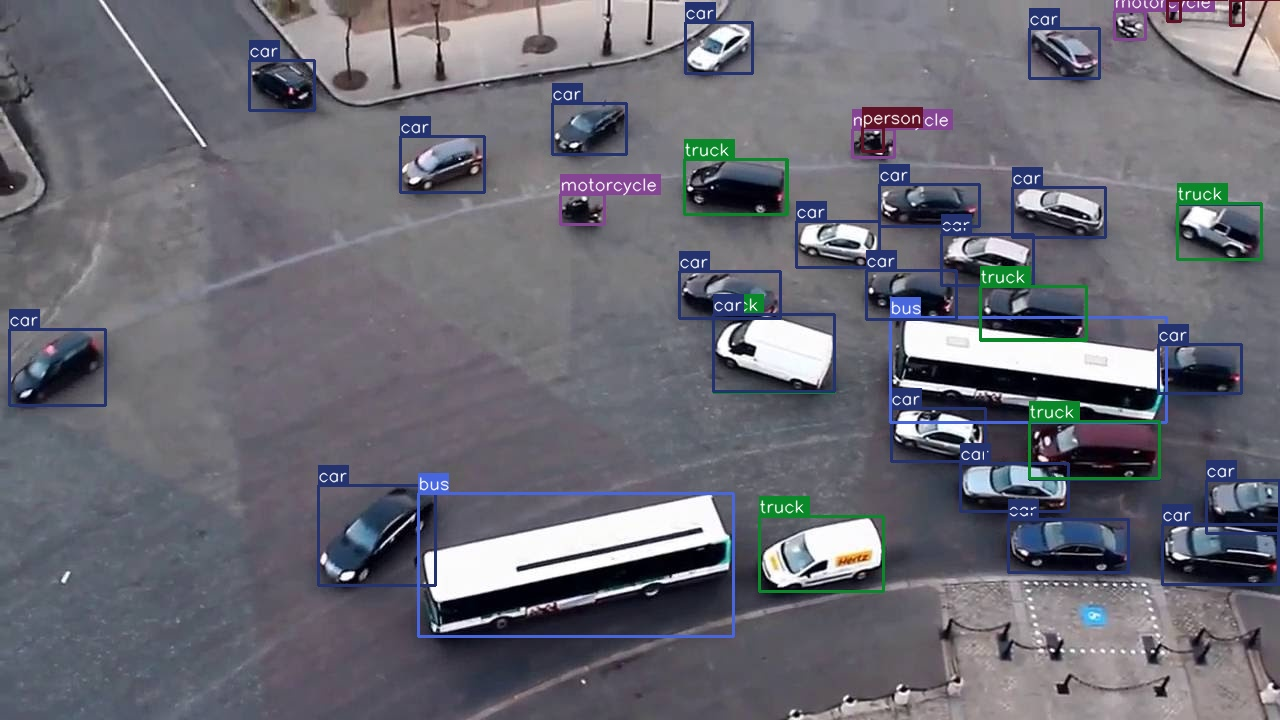
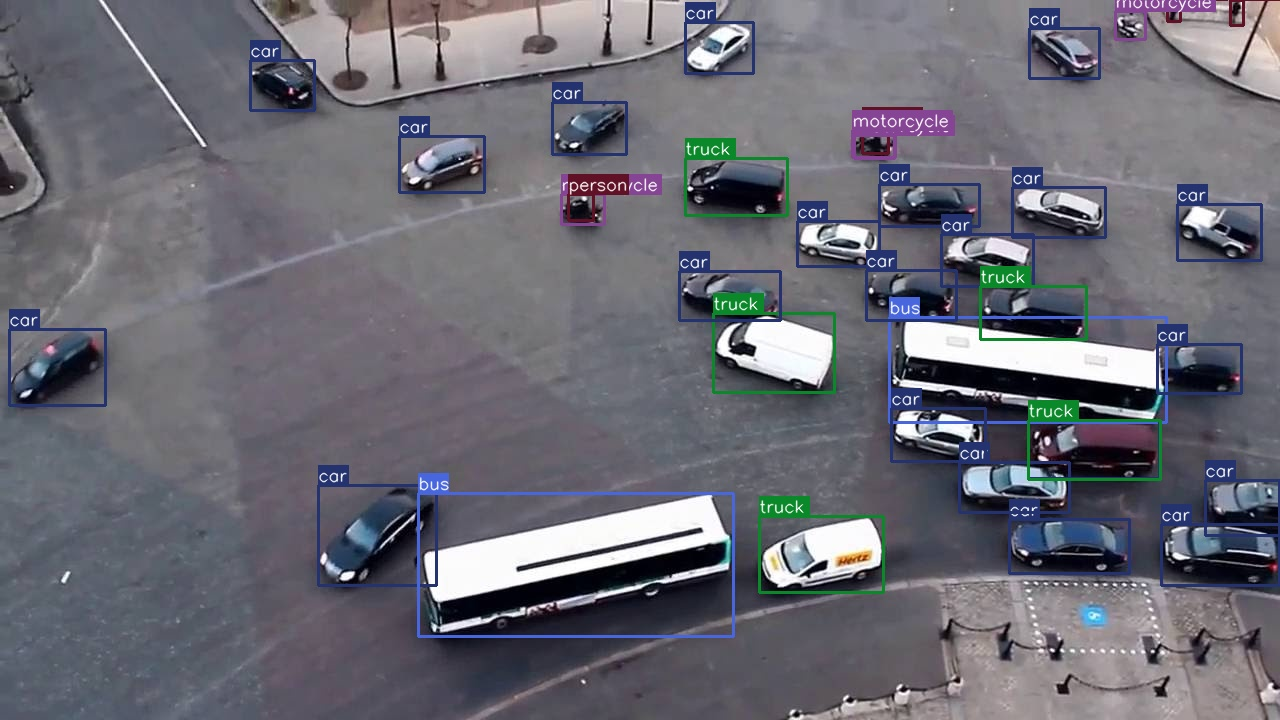
convert to rgb in model

diff --git a/test/test_outputs.py b/test/test_outputs.py
@@ -41,7 +41,6 @@ if __name__ == "__main__":
   threshold = 0.5
   models = [[384, "nano"], [512, "small"], [576, "medium"], [704, "large"]]
   image = cv2.imread("test/dog.jpg")
-  image = cv2.cvtColor(image, cv2.COLOR_BGR2RGB)
 
   for i in range(len(models)):
     model = RFDETR(models[i][1])

diff --git a/test/run_jit.py b/test/run_jit.py
@@ -14,7 +14,6 @@ if __name__ == "__main__":
   size = sys.argv[1]
   size = sizes[size]
   image = cv2.imread("test/dog.jpg")
-  image = cv2.cvtColor(image, cv2.COLOR_BGR2RGB)
   model = RFDETR(size)
   img_np = np.asarray(image)
   h, w = img_np.shape[:2]

diff --git a/rfdetr.py b/rfdetr.py
@@ -638,6 +638,7 @@ class RFDETR():
   
   def preprocess(self, frame):
     img = frame.cast(dtypes.float32)
+    img = img[:, :, ::-1]
     img /= 255.0
     means = Tensor([[[0.485, 0.456, 0.406]]])
     stds = Tensor([[[0.229, 0.224, 0.225]]])
